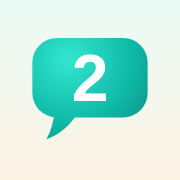
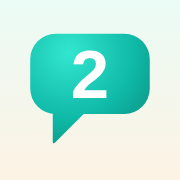
feat: teal waiting screen with countdown ring + ambient words; polish
- Icon: make the speech-bubble tail prominent so it clearly reads as a
  bubble (concept #4)
- Done state stays in the app palette (teal, not yellow); coin gains a
  depleting ring + live HH:MM:SS countdown to tomorrow's words, and
  auto-unlocks at midnight
- Gently fading Greek words (fade in/out) on the waiting screen
- Rename 'בא לי עוד 2 מילים' -> 'אקסטרה 2 מילים'
- Apple-style micro-animations: spring button presses, sheet slide-up
  for the panel, pop-in for the done check, study-word fade-in, smooth
  progress-bar fills

Claude-Session: https://claude.ai/code/session_01QCvF7pXbk7ygxMYdahHZNt

Changed region(s): [[0.1667, 0.1667, 0.8333, 0.5556], [0.3889, 0.2778, 0.6111, 0.5833], [0.1944, 0.5833, 0.8056, 0.8056]]

diff --git a/greek-daily.html b/greek-daily.html
@@ -60,10 +60,16 @@
     50%{ box-shadow:0 16px 44px rgba(15,185,167,0.55), inset 0 -8px 18px rgba(0,0,0,0.12), inset 0 6px 14px rgba(255,255,255,0.25); }
   }
   .coin.done{
-    background:radial-gradient(circle at 32% 28%,#FFD873,var(--sun) 55%,#E0A200 100%);
-    box-shadow:0 12px 32px rgba(255,201,60,0.4), inset 0 -8px 18px rgba(0,0,0,0.1);
+    background:radial-gradient(circle at 32% 28%,#2FE0C9,var(--teal) 55%,var(--teal-dark) 100%);
+    box-shadow:0 12px 32px rgba(15,185,167,0.35), inset 0 -8px 18px rgba(0,0,0,0.12), inset 0 6px 14px rgba(255,255,255,0.25);
     cursor:default;
   }
+  /* countdown ring around the coin (shown while waiting for tomorrow) */
+  .ring{ position:absolute; top:-14px; left:-14px; width:248px; height:248px; transform:rotate(-90deg); pointer-events:none; opacity:0; transition:opacity .5s ease; }
+  .ring.on{ opacity:1; }
+  .ring circle{ fill:none; stroke-width:6; stroke-linecap:round; }
+  .ring-bg{ stroke:rgba(15,185,167,0.14); }
+  .ring-fg{ stroke:url(#ringGrad); transition:stroke-dashoffset 1s linear; }
   .confetti{ position:absolute; inset:0; pointer-events:none; }
   .confetti span{ position:absolute; top:50%; left:50%; width:9px; height:9px; border-radius:2px; }
   @keyframes burst{ to{ transform:translate(var(--dx),var(--dy)) scale(.4); opacity:0; } }
@@ -86,7 +92,28 @@
   .btn-learned{ background:var(--teal); color:#fff; }
   .badge{ font-size:0.85rem; font-weight:700; color:var(--teal-dark); }
 
-  .done-msg{ text-align:center; font-size:0.9rem; color:rgba(62,44,86,0.55); margin-top:6px; }
+  .done-msg{ text-align:center; font-size:0.9rem; color:rgba(62,44,86,0.55); margin-top:6px; animation:fadeUp .5s ease both; }
+  /* waiting screen: countdown + fading ambient words */
+  .wait-count{ text-align:center; margin-top:2px; animation:fadeUp .5s ease both; }
+  .wait-count .cd{ font-size:1.4rem; font-weight:800; color:var(--teal-dark); direction:ltr; letter-spacing:1px; display:inline-flex; align-items:center; gap:7px; }
+  .wait-count .cd-cap{ font-size:0.78rem; color:rgba(62,44,86,0.5); margin-top:4px; }
+  .ambient{ height:70px; margin-top:18px; display:flex; align-items:center; justify-content:center; text-align:center; }
+  .ambient-inner{ opacity:0; transition:opacity 1.1s ease; }
+  .ambient-inner.show{ opacity:1; }
+  .ambient .g{ font-size:1.35rem; font-weight:800; color:var(--teal-dark); }
+  .ambient .t{ font-size:0.72rem; color:rgba(62,44,86,0.4); direction:ltr; margin-top:1px; }
+  .ambient .h{ font-size:0.92rem; color:rgba(62,44,86,0.55); font-weight:600; margin-top:3px; }
+  @keyframes fadeUp{ from{ opacity:0; transform:translateY(8px); } to{ opacity:1; transform:translateY(0); } }
+  @keyframes popIn{ 0%{ opacity:0; transform:scale(.7); } 60%{ opacity:1; transform:scale(1.08); } 100%{ transform:scale(1); } }
+  /* Apple-style micro-interactions */
+  button{ transition:transform .13s cubic-bezier(.34,1.56,.64,1); }
+  .action:active, .study-speak:active, .card-speak:active, .li-speak:active,
+  .sw-actions button:active, .menu-btn:active, .panel-ic:active, .btn-learned-big:active{ transform:scale(.93); }
+  .coin.done #coinLabel{ animation:popIn .5s ease both; }
+  .study-word{ animation:fadeUp .42s ease both; }
+  .prog-bar-fill, .progress-fill{ transition:width .8s cubic-bezier(.22,1,.36,1); }
+  .panel:not(.hidden) .panel-inner{ animation:sheetUp .34s cubic-bezier(.22,1,.36,1) both; }
+  @keyframes sheetUp{ from{ transform:translateY(34px); opacity:.5; } to{ transform:translateY(0); opacity:1; } }
   .btn-extra{
     display:block; margin:16px auto 0; border:none; border-radius:16px;
     padding:13px 24px; font-size:0.92rem; font-weight:700; cursor:pointer;
@@ -168,6 +195,13 @@
 <div class="progress-track"><div class="progress-fill" id="progFill"></div></div>
 
 <div class="coin-wrap">
+  <svg class="ring" id="ring" viewBox="0 0 248 248">
+    <defs><linearGradient id="ringGrad" x1="0" y1="0" x2="1" y2="1">
+      <stop offset="0" stop-color="#2FE0C9"/><stop offset="1" stop-color="#0A8577"/>
+    </linearGradient></defs>
+    <circle class="ring-bg" cx="124" cy="124" r="118"/>
+    <circle class="ring-fg" id="ringFg" cx="124" cy="124" r="118"/>
+  </svg>
   <div class="confetti" id="confetti"></div>
   <button class="coin pulse" id="coinBtn"><span id="coinLabel">לחץ<br>ל־2 המילים של היום</span></button>
 </div>
@@ -962,11 +996,40 @@ function renderStat(){
   }
 }
 
+let waitTimers=[];
+function clearWait(){ waitTimers.forEach(clearInterval); waitTimers=[]; document.getElementById('ring').classList.remove('on'); }
+const RING_C = 2*Math.PI*118;
+function msToMidnight(){ const n=new Date(); const m=new Date(n); m.setHours(24,0,0,0); return m-n; }
+// The waiting screen: a depleting ring + live countdown to tomorrow's words, and gently fading words.
+function startWait(cds, ambient){
+  const ring=document.getElementById('ring'), fg=document.getElementById('ringFg');
+  fg.style.strokeDasharray=RING_C;
+  const tick=()=>{
+    if(todayKey()!==state.day.date){ state.day={date:todayKey(),slots:[],opened:false}; save(); render(); return; }
+    const ms=msToMidnight(), frac=Math.max(0,Math.min(1,ms/86400000));
+    fg.style.strokeDashoffset=(RING_C*(1-frac)).toFixed(1);
+    const s=Math.floor(ms/1000), p=x=>String(x).padStart(2,'0');
+    cds.innerHTML=ic('clock',18)+p(Math.floor(s/3600))+':'+p(Math.floor(s%3600/60))+':'+p(s%60);
+  };
+  requestAnimationFrame(()=>ring.classList.add('on'));
+  tick(); waitTimers.push(setInterval(tick,1000));
+  // fading ambient words
+  const inner=ambient.querySelector('.ambient-inner');
+  const swap=()=>{
+    const e=WORDS[Math.floor(Math.random()*WORDS.length)];
+    inner.innerHTML='<div class="g">'+e[0]+'</div><div class="t">'+e[1]+'</div><div class="h">'+e[2]+'</div>';
+    inner.classList.add('show');
+    waitTimers.push(setTimeout(()=>inner.classList.remove('show'),3200));
+  };
+  swap(); waitTimers.push(setInterval(swap,4600));
+}
+
 function render(){
   const coin=document.getElementById('coinBtn');
   const label=document.getElementById('coinLabel');
   const cards=document.getElementById('cards');
   if(timerId){ clearInterval(timerId); timerId=null; }
+  clearWait();
   cards.innerHTML='';
   renderStat();
 
@@ -975,12 +1038,20 @@ function render(){
     coin.classList.remove('pulse'); coin.classList.add('done');
     label.innerHTML=ic('check',30)+'<br>סיימת להיום';
     const m=document.createElement('div');
-    m.className='done-msg'; m.innerHTML='יפה. חזור מחר ל־2 מילים חדשות '+ic('moon',15);
+    m.className='done-msg'; m.textContent='יפה. חזור מחר ל־2 מילים חדשות';
     cards.appendChild(m);
+    const wc=document.createElement('div');
+    wc.className='wait-count';
+    wc.innerHTML='<div class="cd"></div><div class="cd-cap">עד המילים הבאות</div>';
+    cards.appendChild(wc);
+    const amb=document.createElement('div');
+    amb.className='ambient'; amb.innerHTML='<div class="ambient-inner"></div>';
+    cards.appendChild(amb);
     const x=document.createElement('button');
-    x.className='btn-extra'; x.innerHTML=ic('plus',18)+'בא לי עוד 2 מילים';
+    x.className='btn-extra'; x.innerHTML=ic('plus',18)+'אקסטרה 2 מילים';
     x.onclick=extraRound;
     cards.appendChild(x);
+    startWait(wc.querySelector('.cd'), amb);
     return;
   }
 
